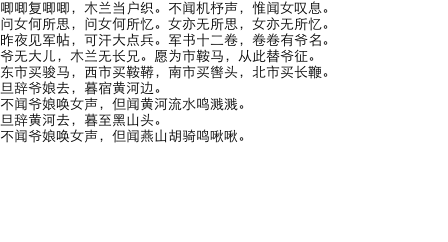
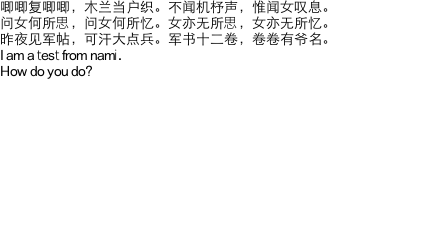
解决思源字体
解决思源字体

Changed region(s): [[0.0, 0.0, 0.5625, 0.6074], [0.5312, 0.0, 0.75, 0.3471]]

diff --git a/public/link.html b/public/link.html
@@ -32,7 +32,10 @@
 		<canvas id="canvas" width="448" height="242" class="hide"></canvas>
 	</div>
 	<script type="text/javascript" src="/socket.io/socket.io.js"></script>
-	<script type="text/javascript" src="/js/jquery.js"></script>
+	<script type="text/javascript" src="http://www.youziku.com/UserDownFile/jquery.min.js"></script>
+	<script type="text/javascript" src="http://www.youziku.com/UserDownFile/jquery.md5.js"></script>
+
+	<!-- // <script type="text/javascript" src="/js/jquery.js"></script> -->
 	<script type="text/javascript">
 		// var host = 'ws://localhost:3000';
 		var socket;
@@ -120,6 +123,80 @@
 			return false;
 		});
 		
+		// youziku
+		// Source-Han-Medium
+		function ftSourceHanMedium(txt) {
+	        var resultStr = txt;
+	        var md5 = "";
+	        resultStr = Trim(resultStr);
+	        resultStr = SelectWord(resultStr);
+	        md5 = $.md5("fb32eac10e9f4d38a65da6b5577be05c"+"Source-Han-Sans-Medium" + resultStr);
+	        // 同步拉取，确保能拉取
+	        $.ajaxSettings.async = false;
+	        $.getJSON("http://www.youziku.com/webfont/CSSPOST?jsoncallback=?", { "id": md5, "guid": "fb32eac10e9f4d38a65da6b5577be05c", "type": "5" }, function (json) {
+	            if (json.result == 0) {/*alert("需要生成");*/
+	                $.post("http://www.youziku.com/webfont/PostCorsCreateFont", { "name": "Source-Han-Sans-Medium", "gid": "fb32eac10e9f4d38a65da6b5577be05c", "type": "5", "text": resultStr }, function (json) {
+	                if (json == "0") { /*alert("参数不对");*/
+	                } else if (json == "2") {/*alert("超过每日生成字体数的上限");*/
+	                } else if (json == "3") { /*alert("当前正在生成请稍后");*/
+	                } else {/*alert("正在生成");*/
+	                }
+	            });
+	            }
+	            else {/*alert("下载css文件");*/
+	                loadExtentFile("http://www.youziku.com/webfont/css?id=" + md5 + "&guid=" + "fb32eac10e9f4d38a65da6b5577be05c" + "&type=5");
+	            }
+	        });
+	    }
+		// Source-Han-Normal
+		function ftSourceHanNormal(txt) {
+	        var resultStr = txt;
+	        var md5 = "";
+	        resultStr = Trim(resultStr);
+	        resultStr = SelectWord(resultStr);
+	        md5 = $.md5("02c0a71621fb48369c5dbb1a5cdd7f11"+"Source-Han-Normal" + resultStr);
+	        // 同步拉取，确保能拉取
+	        $.ajaxSettings.async = false;
+	        $.getJSON("http://www.youziku.com/webfont/CSSPOST?jsoncallback=?", { "id": md5, "guid": "02c0a71621fb48369c5dbb1a5cdd7f11", "type": "5" }, function (json) {
+	            if (json.result == 0) {/*alert("需要生成");*/
+	                $.post("http://www.youziku.com/webfont/PostCorsCreateFont", { "name": "Source-Han-Normal", "gid": "02c0a71621fb48369c5dbb1a5cdd7f11", "type": "5", "text": resultStr }, function (json) {
+	                if (json == "0") { /*alert("参数不对");*/
+	                } else if (json == "2") {/*alert("超过每日生成字体数的上限");*/
+	                } else if (json == "3") { /*alert("当前正在生成请稍后");*/
+	                } else {/*alert("正在生成");*/
+	                }
+	            });
+	            }
+	            else {/*alert("下载css文件");*/
+	                loadExtentFile("http://www.youziku.com/webfont/css?id=" + md5 + "&guid=" + "02c0a71621fb48369c5dbb1a5cdd7f11" + "&type=5");
+	            }
+	        });
+	    }
+		// Source-Han-Light
+	    function ftSourceHanLight(txt) {
+	        var resultStr = txt;
+	        var md5 = "";
+	        resultStr = Trim(resultStr);
+	        resultStr = SelectWord(resultStr);
+	        md5 = $.md5("a6caa41ae65c42b9aea1d7af37580849"+"Source-Han-Light" + resultStr);
+	        // 同步拉取，确保能拉取
+	        $.ajaxSettings.async = false;
+	        $.getJSON("http://www.youziku.com/webfont/CSSPOST?jsoncallback=?", { "id": md5, "guid": "a6caa41ae65c42b9aea1d7af37580849", "type": "5" }, function (json) {
+	            if (json.result == 0) {/*alert("需要生成");*/
+	                $.post("http://www.youziku.com/webfont/PostCorsCreateFont", { "name": "Source-Han-Light", "gid": "a6caa41ae65c42b9aea1d7af37580849", "type": "5", "text": resultStr }, function (json) {
+	                if (json == "0") { /*alert("参数不对");*/
+	                } else if (json == "2") {/*alert("超过每日生成字体数的上限");*/
+	                } else if (json == "3") { /*alert("当前正在生成请稍后");*/
+	                } else {/*alert("正在生成");*/
+	                }
+	            });
+	            }
+	            else {/*alert("下载css文件");*/
+	                loadExtentFile("http://www.youziku.com/webfont/css?id=" + md5 + "&guid=" + "a6caa41ae65c42b9aea1d7af37580849" + "&type=5");
+	            }
+	        });
+	    }
+
 		function getUAType(){
 			var ua = navigator && navigator.userAgent;
 			// 如果ua存在
@@ -168,6 +245,43 @@
 			lineheight = info.lineheight;
 			color = info.color;
 			bgcolor = info.bgcolor;
+
+			getFontType(family);
+		}
+
+		function getFontType(family){
+			// console.log(family);
+			if(family == 'Source-Han-Normal'){
+				ftSourceHanNormal(family);
+				$('#canvas').attr('class','hide').addClass('Source-Han-Normal');
+				setTimeout(function(){
+					var _family = $('.Source-Han-Normal').css('font-family');
+					window.family = _family;
+					draw();
+				},1000);
+			}
+			else if(family == 'Source-Han-Medium'){
+				ftSourceHanMedium(family);
+				$('#canvas').attr('class','hide').addClass('Source-Han-Sans-Medium');
+				setTimeout(function(){
+					var _family = $('.Source-Han-Sans-Medium').css('font-family');
+					window.family = _family;
+					draw();
+				},1000);
+			}
+			else if(family == 'Source-Han-Light'){
+				ftSourceHanLight(family);
+				$('#canvas').attr('class','hide').addClass('Source-Han-Light');
+				setTimeout(function(){
+					var _family = $('.Source-Han-Light').css('font-family');
+					window.family = _family;
+					draw();
+				},1000);
+			}
+			else{
+				$('#canvas').attr('class','hide');
+				draw();
+			}
 		}
 
 		function getInfo(){
@@ -241,6 +355,7 @@
 			ctx.fillStyle = bgcolor;
 			ctx.fillRect(0,0,448,242);
 
+			console.log(family);
 			//text prehandle
 			ctx.font = style + " " + weight + " " + size+" "+family;
 			ctx.fillStyle = color;
@@ -330,7 +445,11 @@
 				$('#messages').prepend($('<li>').text("你被选中为绘图机器，对应申请终端为用户"+msg.from));
 				fromTerm = msg.from;
 				setInfo(msg.info);
-				draw();
+
+				// draw()加入setInfo()，确保字体更改
+				// setTimeout(function(){
+				// 	draw();
+				// },10);
 			}
 			return false;
 		});

diff --git a/public/css/style.css b/public/css/style.css
@@ -15,6 +15,8 @@
 	color: #fff;background-color: #16a085;text-decoration: none;padding: 5px 10px;transition:all .2s ease-in;-webkit-transition:all .2s ease-in;
 	border-radius: 3px;}
 #link:hover,#relink:hover,#reload:hover{background-color: #1abc9c;}
+.isuxlogo{height: 26px;vertical-align: middle;}
+.tonylogo{height: 80px;vertical-align: middle;}
 
 .control-wrap{height: 280px;width: 100%;background-color: #383839;background-image: url(../images/bg.png);}
 .control-box{width: 980px;height: 265px;background-color: #fff;position: absolute;top: 46px;}
@@ -26,9 +28,9 @@
 #lineheight,
 #size{height: 24px;border-radius: 3px;position: absolute;top: 6px;border: 0px;padding: 0;}
 #lineheight:focus,#size:focus,#family:focus{outline: none;}
-#family{left: 10px;width: 98px;}
-#size{left: 140px;width: 70px;}
-.font-style-wrap{position: absolute;top: 6px;border-radius: 3px;height: 24px;padding: 0;left: 220px;background-color: #fff;
+#family{left: 10px;width: 138px;}
+#size{left: 180px;width: 70px;}
+.font-style-wrap{position: absolute;top: 6px;border-radius: 3px;height: 24px;padding: 0;left: 260px;background-color: #fff;
 	width: 60px;font-size: 0;letter-spacing: -5px;}
 #weight,
 #style{color: #000;text-decoration: none;width: 28px;display: inline-block;text-align: center;line-height: 24px;font-size: 16px;letter-spacing: 0;
@@ -40,16 +42,16 @@
 #weight.active,
 #style.active{background-color: #ccc;}
 .font-style-wrap #style{font-style: italic;color: #000;text-decoration: none;width: 30px;}
-#color{left: 288px;width: 70px;padding-left: 28px;background-color: #fff!important;color: #000!important;}
-#bgcolor{left: 394px;width: 70px;padding-left: 28px;background-color: #fff!important;color: #000!important;}
-#lineheight{left: 525px;width: 70px;}
+#color{left: 328px;width: 70px;padding-left: 28px;background-color: #fff!important;color: #000!important;}
+#bgcolor{left: 434px;width: 70px;padding-left: 28px;background-color: #fff!important;color: #000!important;}
+#lineheight{left: 565px;width: 70px;}
 .select-inner{padding-left: 28px;border-radius: 3px 0 0 3px;background-color: #fff;}
 .icon-size{background-image: url(../images/icon-size.png);top: 3px;left: 2px;border-right: 1px solid #ddd;display: inline-block;width: 20px;height: 20px;position: absolute;}
-.size-icon-wrap{width: 28px;background-color: #fff;border-radius: 3px 0 0 3px;position: absolute;left: 115px;top: 6px;height: 24px;}
-.icon-color{background-image: url(../images/icon-color.png);top: 8px;left: 292px;border-right: 1px solid #ddd;display: inline-block;width: 19px;height: 20px;position: absolute;}
-.icon-bgcolor{background-image: url(../images/icon-bgcolor.png);top: 8px;left: 398px;border-right: 1px solid #ddd;display: inline-block;width: 19px;height: 20px;position: absolute;}
+.size-icon-wrap{width: 28px;background-color: #fff;border-radius: 3px 0 0 3px;position: absolute;left: 155px;top: 6px;height: 24px;}
+.icon-color{background-image: url(../images/icon-color.png);top: 8px;left: 332px;border-right: 1px solid #ddd;display: inline-block;width: 19px;height: 20px;position: absolute;}
+.icon-bgcolor{background-image: url(../images/icon-bgcolor.png);top: 8px;left: 438px;border-right: 1px solid #ddd;display: inline-block;width: 19px;height: 20px;position: absolute;}
 .icon-lineheight{background-image: url(../images/icon-lineheight.png);top: 3px;left: 2px;border-right: 1px solid #ddd;display: inline-block;width: 19px;height: 20px;position: absolute;}
-.lineheight-icon-wrap{width: 28px;background-color: #fff;border-radius: 3px 0 0 3px;position: absolute;left: 500px;top: 6px;height: 24px;}
+.lineheight-icon-wrap{width: 28px;background-color: #fff;border-radius: 3px 0 0 3px;position: absolute;left: 540px;top: 6px;height: 24px;}
 
 #submit,#css,#reset{padding: 6px 10px;color: #333;background-color: #fff;border-radius: 3px;font-size: 12px;text-decoration: none;
 	position: absolute;top: 6px;transition:all .2s ease-in;-webkit-transition:all .2s ease-in;}
@@ -90,9 +92,46 @@
 .link-status-msg{color: #fff;position: absolute;top: 33px;right: 0;font-family: Microsoft yahei;font-size:18px;}
 .link-status-msg-active{animation:bounceInUp 1.5s ease-in;-webkit-animation:bounceInUp 1.5s ease-in;}
 
-.footer .fresh-btn{position: absolute;bottom: 0px;left: 50%;margin-left: -30px;font-size: 12px;width: 60px;height: 24px;line-height: 24px;background-color: #16a085;color: #fff;text-align: center;cursor: pointer;
-  vertical-align: middle;display: inline-block;}
-.footer .fresh-btn:hover{background-color: #1abc9c;text-decoration: none;}
+.fresh-btn{font-size: 12px;width: 14px;background-color: rgba(22,160,130,0.5);;color: #fff;text-align: center;cursor: pointer;
+  vertical-align: middle;display: inline-block;position: absolute;top: 0;right: -24px;padding: 5px;line-height: 14px;}
+.fresh-btn:hover{background-color: rgba(22,160,130,1);text-decoration: none;}
+
+.pop-tips{padding:8px 20px 8px 10px;text-align: center;display: inline-block;position: absolute;color: #000;top: -37px;right: 0;font-size: 12px;background-color: #fff;
+  opacity: 0;}
+.pop-tips-active{opacity:1;animation:fadeInUp 0.2s ease-in;-webkit-animation:fadeInUp 0.2s ease-in;}
+.pop-tips .close{font-family: simsum;font-size: 14px;height: 20px;width: 20px;line-height: 20px;text-align: center;position: absolute;text-decoration: none;color: #000;right: 0;top: 0;}
+.pop-tips .close:hover{background-color: #16A085;color: #fff;}
+.pop-tips:after{position: absolute;content: '';width: 12px;height: 12px;top: 22px;right: 26px;background-color: #fff;-webkit-transform:rotate(45deg);transform:rotate(45deg);}
+
+@-webkit-keyframes fadeInUp {
+  0% {
+    opacity: 0;
+    -webkit-transform: translate3d(0, 100%, 0);
+    transform: translate3d(0, 100%, 0);
+  }
+
+  100% {
+    opacity: 1;
+    -webkit-transform: none;
+    transform: none;
+  }
+}
+
+@keyframes fadeInUp {
+  0% {
+    opacity: 0;
+    -webkit-transform: translate3d(0, 100%, 0);
+    -ms-transform: translate3d(0, 100%, 0);
+    transform: translate3d(0, 100%, 0);
+  }
+
+  100% {
+    opacity: 1;
+    -webkit-transform: none;
+    -ms-transform: none;
+    transform: none;
+  }
+}
 
 	@-webkit-keyframes bounceInUp {
   0%, 60%, 75%, 90%, 100% {

diff --git a/public/index.html b/public/index.html
@@ -13,7 +13,7 @@
 	<div class="header">
 		<div class="inner">
 			<a href="###" class="logo"><img src="http://www.isux.us:3000/images/logo.png" /></a>
-			<small class="logo-txt">多终端预览平台</small>
+			<small class="logo-txt Source-Han-Light">多终端预览平台</small>
 			<a href="javascript:void(0)" id="reload" class="hide">重新加载</a>
 			<p class="link-status-msg">连接中...</p>
 		</div>
@@ -23,10 +23,29 @@
 		<div class="inner">
 			<div class="control-box">
 				<div class="hd">
+					<a class="fresh-btn" id="fresh-btn" title="若终端等待，请刷新终端。">刷新终端</a>
 					<div class="select-wrap fontfamily">
 						<select name="family" id="family" title="字体">
+							<optgroup label="- hot list --------------------">
+								<option value="Source-Han-Normal" selected="selected">Source-Han-normal</option>
+								<option value="Source-Han-Medium" selected="selected">Source-Han-medium</option>
+								<option value="Source-Han-Light" selected="selected">Source-Han-Light</option>
+								<option value="Helvetica Neue">Helvetica Neue</option>
+								<option value="Helvetica Neue Light">Helvetica Neue Light</option>
+								<option value="Helvetica">Helvetica</option>
+								<option value="Microsoft yahei">Microsoft yahei</option>
+								<option value="Arial">Arial</option>
+								<option value="Arial Black">Arial Black</option>
+								<option value="Comic Sans MS">Comic Sans MS</option>
+								<option value="Georgia">Georgia</option>
+								<option value="Impact">Impact</option>
+								<option value="Times New Roman">Times New Roman</option>
+								<option value="Verdana">Verdana</option>
+								<option value="Simsum">Simsum</option>
+								<option value="nono sans">nono sans</option>
+							</optgroup>
 							<optgroup label="- safe list --------------------">
-								<option value="Arial" selected="selected">Arial</option>
+								<option value="Arial">Arial</option>
 								<option value="Arial Black">Arial Black</option>
 								<option value="Comic Sans MS">Comic Sans MS</option>
 								<option value="Courier New">Courier New</option>
@@ -215,10 +234,10 @@
 					<a href="javascript:void(0)" id="reset">重置</a>
 					<a href="javascript:void(0)" id="submit">预览</a>
 					<textarea id="code" class="hide"></textarea>
-				
+					<div class="pop-tips" title="关闭">tips:若终端返回延迟，请点击右方刷新终端～<a href="javascript:;" class="close">×</a></div>
 				</div>
 				<div class="bd">
-					<textarea id="content">唧唧复唧唧，木兰当户织。不闻机杼声，惟闻女叹息。
+					<textarea id="content" class="Source-Han-Light">唧唧复唧唧，木兰当户织。不闻机杼声，惟闻女叹息。
 问女何所思，问女何所忆。女亦无所思，女亦无所忆。
 昨夜见军帖，可汗大点兵。军书十二卷，卷卷有爷名。
 爷无大儿，木兰无长兄。愿为市鞍马，从此替爷征。
@@ -261,11 +280,13 @@
 	</div>
 
 	<div class="footer">
-		多终端字体预览平台NAMI <a href="http://isux.tencent.com" target="_blank">@ISUX</a>
-		<a class="fresh-btn" id="fresh-btn" title="若终端等待，请刷新终端。">刷新终端</a>
+		<a href="http://isux.tencent.com" target="_blank"><img class="isuxlogo" src="http://www.isux.us:3000/images/isux.png"></a>
+		<a href="http://isux.oa.com/tonylab" target="_blank"><img class="tonylogo" src="http://www.isux.us:3000/images/tony.png"></a>
 	</div>
 	<script type="text/javascript" src="http://www.isux.us:3000/socket.io/socket.io.js"></script>
-	<script type="text/javascript" src="http://www.isux.us:3000/js/jquery.js"></script>
+	<script type="text/javascript" src="http://www.youziku.com/UserDownFile/jquery.min.js"></script>
+	<script type="text/javascript" src="http://www.youziku.com/UserDownFile/jquery.md5.js"></script>
+	<!-- <script type="text/javascript" src="http://www.isux.us:3000/js/jquery.js"></script> -->
 	<script type="text/javascript" src="http://www.isux.us:3000/js/jscolor.js"></script>
 	<script type="text/javascript" src="http://www.isux.us:3000/js/preview.js"></script>
 </body>

diff --git a/public/js/preview.js b/public/js/preview.js
@@ -4,6 +4,7 @@
  * @publish_date:2014/8/5;
  */
 var host = 'ws://www.isux.us:3000';
+// var host = 'ws://localhost:3000';
 var socket;
 var terminals = new Array();
 var myType;
@@ -54,6 +55,7 @@ window.onunload = function(event) {
 		socket.disconnect();
 	}
 }
+
 
 // 加载异常
 function loadError(){
@@ -316,6 +318,7 @@ $('#style').click(function(){
 });
 
 $('#submit').click(function(){
+	$('.pop-tips').addClass('pop-tips-active');
 	if(uid==0||!uid){
 		alert('请先连接！');
 	}
@@ -327,6 +330,10 @@ $('#submit').click(function(){
 		});
 	}
 
+});
+
+$('.pop-tips .close').click(function(){
+	$('.pop-tips').addClass('hide');
 });
 
 $('#fresh-btn').click(function(){
